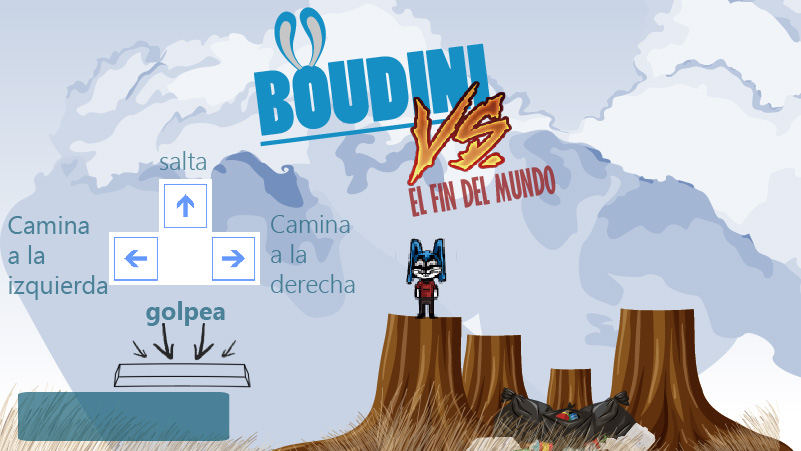
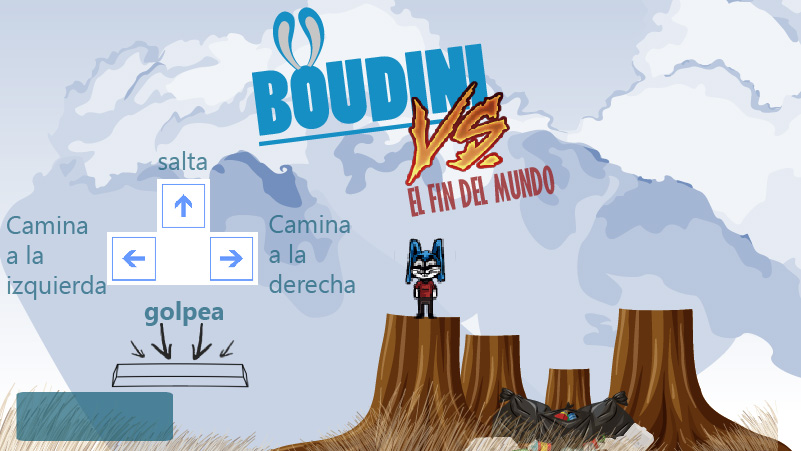
Menu completado

diff --git a/js/state/historia.js b/js/state/historia.js
@@ -1,9 +1,9 @@
-Game.creditos = function(game) {
+Game.historia = function(game) {
 
 };
 
 
-Game.creditos.prototype = {
+Game.historia.prototype = {
 
     menuConfig: {
         startY: 150,
@@ -31,7 +31,7 @@ Game.creditos.prototype = {
         }
         */
         this.stage.disableVisibilityChange = true;
-        this.add.sprite(0, 0, 'creditos');
+        this.add.sprite(0, 0, 'historia');
         this.add.existing(this.titleText);
 
         this.addMenuOption('', function () {
@@ -41,10 +41,10 @@ Game.creditos.prototype = {
         this.addMenuOption('', function () {
             game.state.start("Level1");
         });
-        this.addMenuOption('Aceptar', function () {
-            game.state.start("MainMenu");
+        this.addMenuOption('Entendido', function () {
+            game.state.start("Level1");
         });
     }
 };
 
-Phaser.Utils.mixinPrototype(Game.creditos.prototype, mixins);
+Phaser.Utils.mixinPrototype(Game.historia.prototype, mixins);

diff --git a/js/state/final.js b/js/state/final.js
@@ -1,9 +1,9 @@
-Game.creditos = function(game) {
+Game.final = function(game) {
 
 };
 
 
-Game.creditos.prototype = {
+Game.final.prototype = {
 
     menuConfig: {
         startY: 150,
@@ -31,7 +31,7 @@ Game.creditos.prototype = {
         }
         */
         this.stage.disableVisibilityChange = true;
-        this.add.sprite(0, 0, 'creditos');
+        this.add.sprite(0, 0, 'final');
         this.add.existing(this.titleText);
 
         this.addMenuOption('', function () {
@@ -41,10 +41,10 @@ Game.creditos.prototype = {
         this.addMenuOption('', function () {
             game.state.start("Level1");
         });
-        this.addMenuOption('Aceptar', function () {
+        this.addMenuOption('Entendido', function () {
             game.state.start("MainMenu");
         });
     }
 };
 
-Phaser.Utils.mixinPrototype(Game.creditos.prototype, mixins);
+Phaser.Utils.mixinPrototype(Game.final.prototype, mixins);

diff --git a/index.html b/index.html
@@ -10,12 +10,15 @@
     <script type="text/javascript" src="lib/style.js"></script>
     <script type="text/javascript" src="lib/utils.js"></script>
     <script type="text/javascript" src="js/state/Boot.js"></script>
-    <script type="text/javascript" src="js/state/Preloader.js"></script>    
+    <script type="text/javascript" src="js/state/Preloader.js"></script>
+    <script type="text/javascript" src="js/state/historia.js"></script>
     <script type="text/javascript" src="js/state/tutorial.js"></script>
     <script type="text/javascript" src="js/state/creditos.js"></script>
+    <script type="text/javascript" src="js/state/final.js"></script> 
     <script type="text/javascript" src="js/state/MainMenu.js"></script>
     <script type="text/javascript" src="js/state/Level1.js"></script>
 </head>
+
 <body>
 <div id="game"></div>
     <script type="text/javascript" src="js/Game.js"></script>

diff --git a/js/state/Preloader.js b/js/state/Preloader.js
@@ -27,7 +27,10 @@ Game.Preloader.prototype = {
 
         //Menu
         this.load.image('menu','assets/imagenes/Menu/menu.jpg');
+        this.load.image('historia','assets/imagenes/Menu/historia.jpg');
         this.load.image('tutorial','assets/imagenes/Menu/tutorial.jpg');
+        this.load.image('creditos','assets/imagenes/Menu/creditos.jpg');
+        this.load.image('final','assets/imagenes/Menu/final.jpg');
         this.load.image('opciones','assets/imagenes/Menu/options.jpg');
         this.load.image('gameover','assets/imagenes/Menu/gameover.jpg');
         this.load.image('fondo-01','assets/imagenes/World/fondo-01.png');

diff --git a/js/Game.js b/js/Game.js
@@ -7,6 +7,8 @@ var game  = new Phaser.Game(800,450,Phaser.AUTO,'');
 game.state.add('Boot',Game.Boot); //Mostrar la barra de cargando del juego
 game.state.add('Preloader',Game.Preloader); //Se cargara los sonidos e imagenes del juego
 game.state.add('MainMenu',Game.MainMenu);//Se muestra el menú inicial
+game.state.add('historia',Game.historia);//Se muestra historia
+game.state.add('final',Game.final);//Se muestra final
 game.state.add('creditos',Game.creditos);//Se muestra creditos
 game.state.add('tutorial',Game.tutorial);//Se muestra tutorial
 game.state.add('Level1',Game.Level1);//El juego

diff --git a/js/state/MainMenu.js b/js/state/MainMenu.js
@@ -35,7 +35,7 @@ Game.MainMenu.prototype = {
         this.add.existing(this.titleText);
 
         this.addMenuOption('Comenzar', function () {
-            game.state.start("Level1");
+            game.state.start("historia");
         });
 
         this.addMenuOption('Cómo jugar', function () {

diff --git a/js/state/Level1.js b/js/state/Level1.js
@@ -405,7 +405,7 @@ Game.Level1.prototype = {
     },
 
     enterDoor: function(player, door) {
-        console.log('entering door that will take you to '+door.targetTilemap+' on x:'+door.targetX+' and y:'+door.targetY);
+        game.state.start("final");
     },
 
 }
